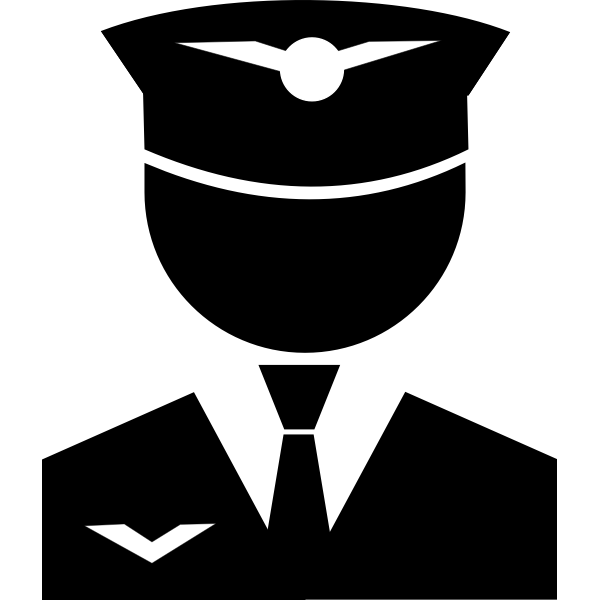
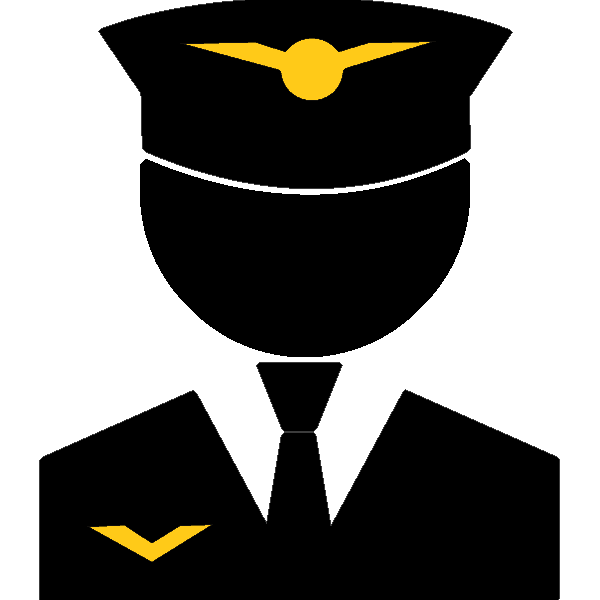
general stylings and add more images

diff --git a/frontend/src/styles/HomePage.css b/frontend/src/styles/HomePage.css
@@ -19,6 +19,7 @@
     justify-content: center;
     align-items: center;
     text-align: center;
+    font-family: 'Monaco', Geneva, Tahoma, sans-serif;
 }
 
 .homepage-info-card-container{
@@ -44,10 +45,12 @@
     background-color: rgba(255,255,255,0.1);
     border: 1px solid rgba(255,255,255,0.1);
     backdrop-filter: blur(10px);
+    font-family: 'Monaco', Geneva, Tahoma, sans-serif;
 }
 
 #homepage-header{
     color : var(--light);
+    font-family: 'Monaco', Geneva, Tahoma, sans-serif;
 }
 
 .pilot-icon-homepage{
@@ -60,4 +63,56 @@
 
 .homepage-info-card hr{
     width : 80%;
+    margin : 5px;
+    height : 1px;
+    background-color: var(--blue);
+    color : var(--blue);
+    border : 1px solid var(--blue);
+}
+
+.homepage-info-card h2{
+    margin : 15px 0px 5px 0px;
+    font-family: 'Monaco', Geneva, Tahoma, sans-serif;
+}
+
+#homepage-login-b{
+    width : 40%;
+    padding : 10px 5px 10px 5px;
+    font-weight: bold;
+    font-size: 1.1rem;
+    margin : 10px;
+    background-color: var(--blue);
+    color : var(--light);
+    border : none;
+    border-radius: 10px;
+}
+
+#homepage-login-b:hover{
+    background-color: rgb(58, 58, 237);
+}
+
+#homepage-sign-up-b{
+    width : 30%;
+    padding : 10px 5px 10px 5px;
+    font-weight: bold;
+    font-size: 1.1rem;
+    margin : 10px;
+    background-color: var(--light);
+    color : var(--darkest);
+    border : none;
+    border-radius: 10px;
+}
+
+#homepage-sign-up-b:hover{
+    background-color: lightgray;
+}
+
+@media only screen and (max-width : 500px){
+    .homepage-info-card-container{
+        flex-direction: column;
+    }
+
+    .homepage-info-card{
+        width : 70vw;
+    }
 }

diff --git a/frontend/src/components/HomePage.jsx b/frontend/src/components/HomePage.jsx
@@ -34,10 +34,10 @@ function HomePage() {
                 
                 <h2 id="homepage-header">Choose Your Path...</h2>
                 <img src={pilotIcon} alt="" className="pilot-icon-homepage"/>
-                <h4>and join {totalPilotCount} virtual pilots worldwide</h4>
+                <h4>and join {totalPilotCount}+ virtual pilots worldwide!</h4>
 
-                <button onClick={() => navigateToPath("/login")}>Login</button>
-                <button onClick={() => navigateToPath("/sign-up")}>Or Sign Up</button>
+                <button onClick={() => navigateToPath("/login")} id="homepage-login-b">Login</button>
+                <button onClick={() => navigateToPath("/sign-up")} id="homepage-sign-up-b">Or Sign Up</button>
             </div>
             <div className="homepage-info-card-container">
                 <div className="homepage-info-card">

diff --git a/frontend/src/components/NavBar.jsx b/frontend/src/components/NavBar.jsx
@@ -15,7 +15,7 @@ function NavBar(props) {
                 <button onClick={() => navigateToPath("/pilot-home")} className="nav-bar-links">Your Pilot Homepage</button>
             </div>
             <div className="right-nav-bar">
-                <button onClick={() => navigateToPath("/login")} className="nav-bar-links">Login</button>
+                <button onClick={() => navigateToPath("/login")} className="nav-bar-links nav-bar-login">Login</button>
                 <button onClick={() => navigateToPath("/sign-up")} className="nav-bar-links">Sign Up</button>
             </div>
         </div>

diff --git a/frontend/src/styles/NavBar.css b/frontend/src/styles/NavBar.css
@@ -71,9 +71,11 @@
 
 .nav-bar-links:hover{
     border : 1px solid var(--light);
-    color : rgb(139, 253, 253);
+    color : var(--dark);
+    border : none;
+}
+
+.nav-bar-login{
+    background-color: var(--blue);
     border-radius: 10px;
-    background: none;
-    margin : 0px 10px 0px 10px;
-    padding : 10px;
 }

diff --git a/frontend/public/index.html b/frontend/public/index.html
@@ -2,7 +2,7 @@
 <html lang="en">
   <head>
     <meta charset="utf-8" />
-    <link rel="icon" href="plane_logo.png" />
+    <link rel="icon" href="pilot_icon.png" />
     <meta name="viewport" content="width=device-width, initial-scale=1" />
     <meta name="theme-color" content="#000000" />
     <meta
